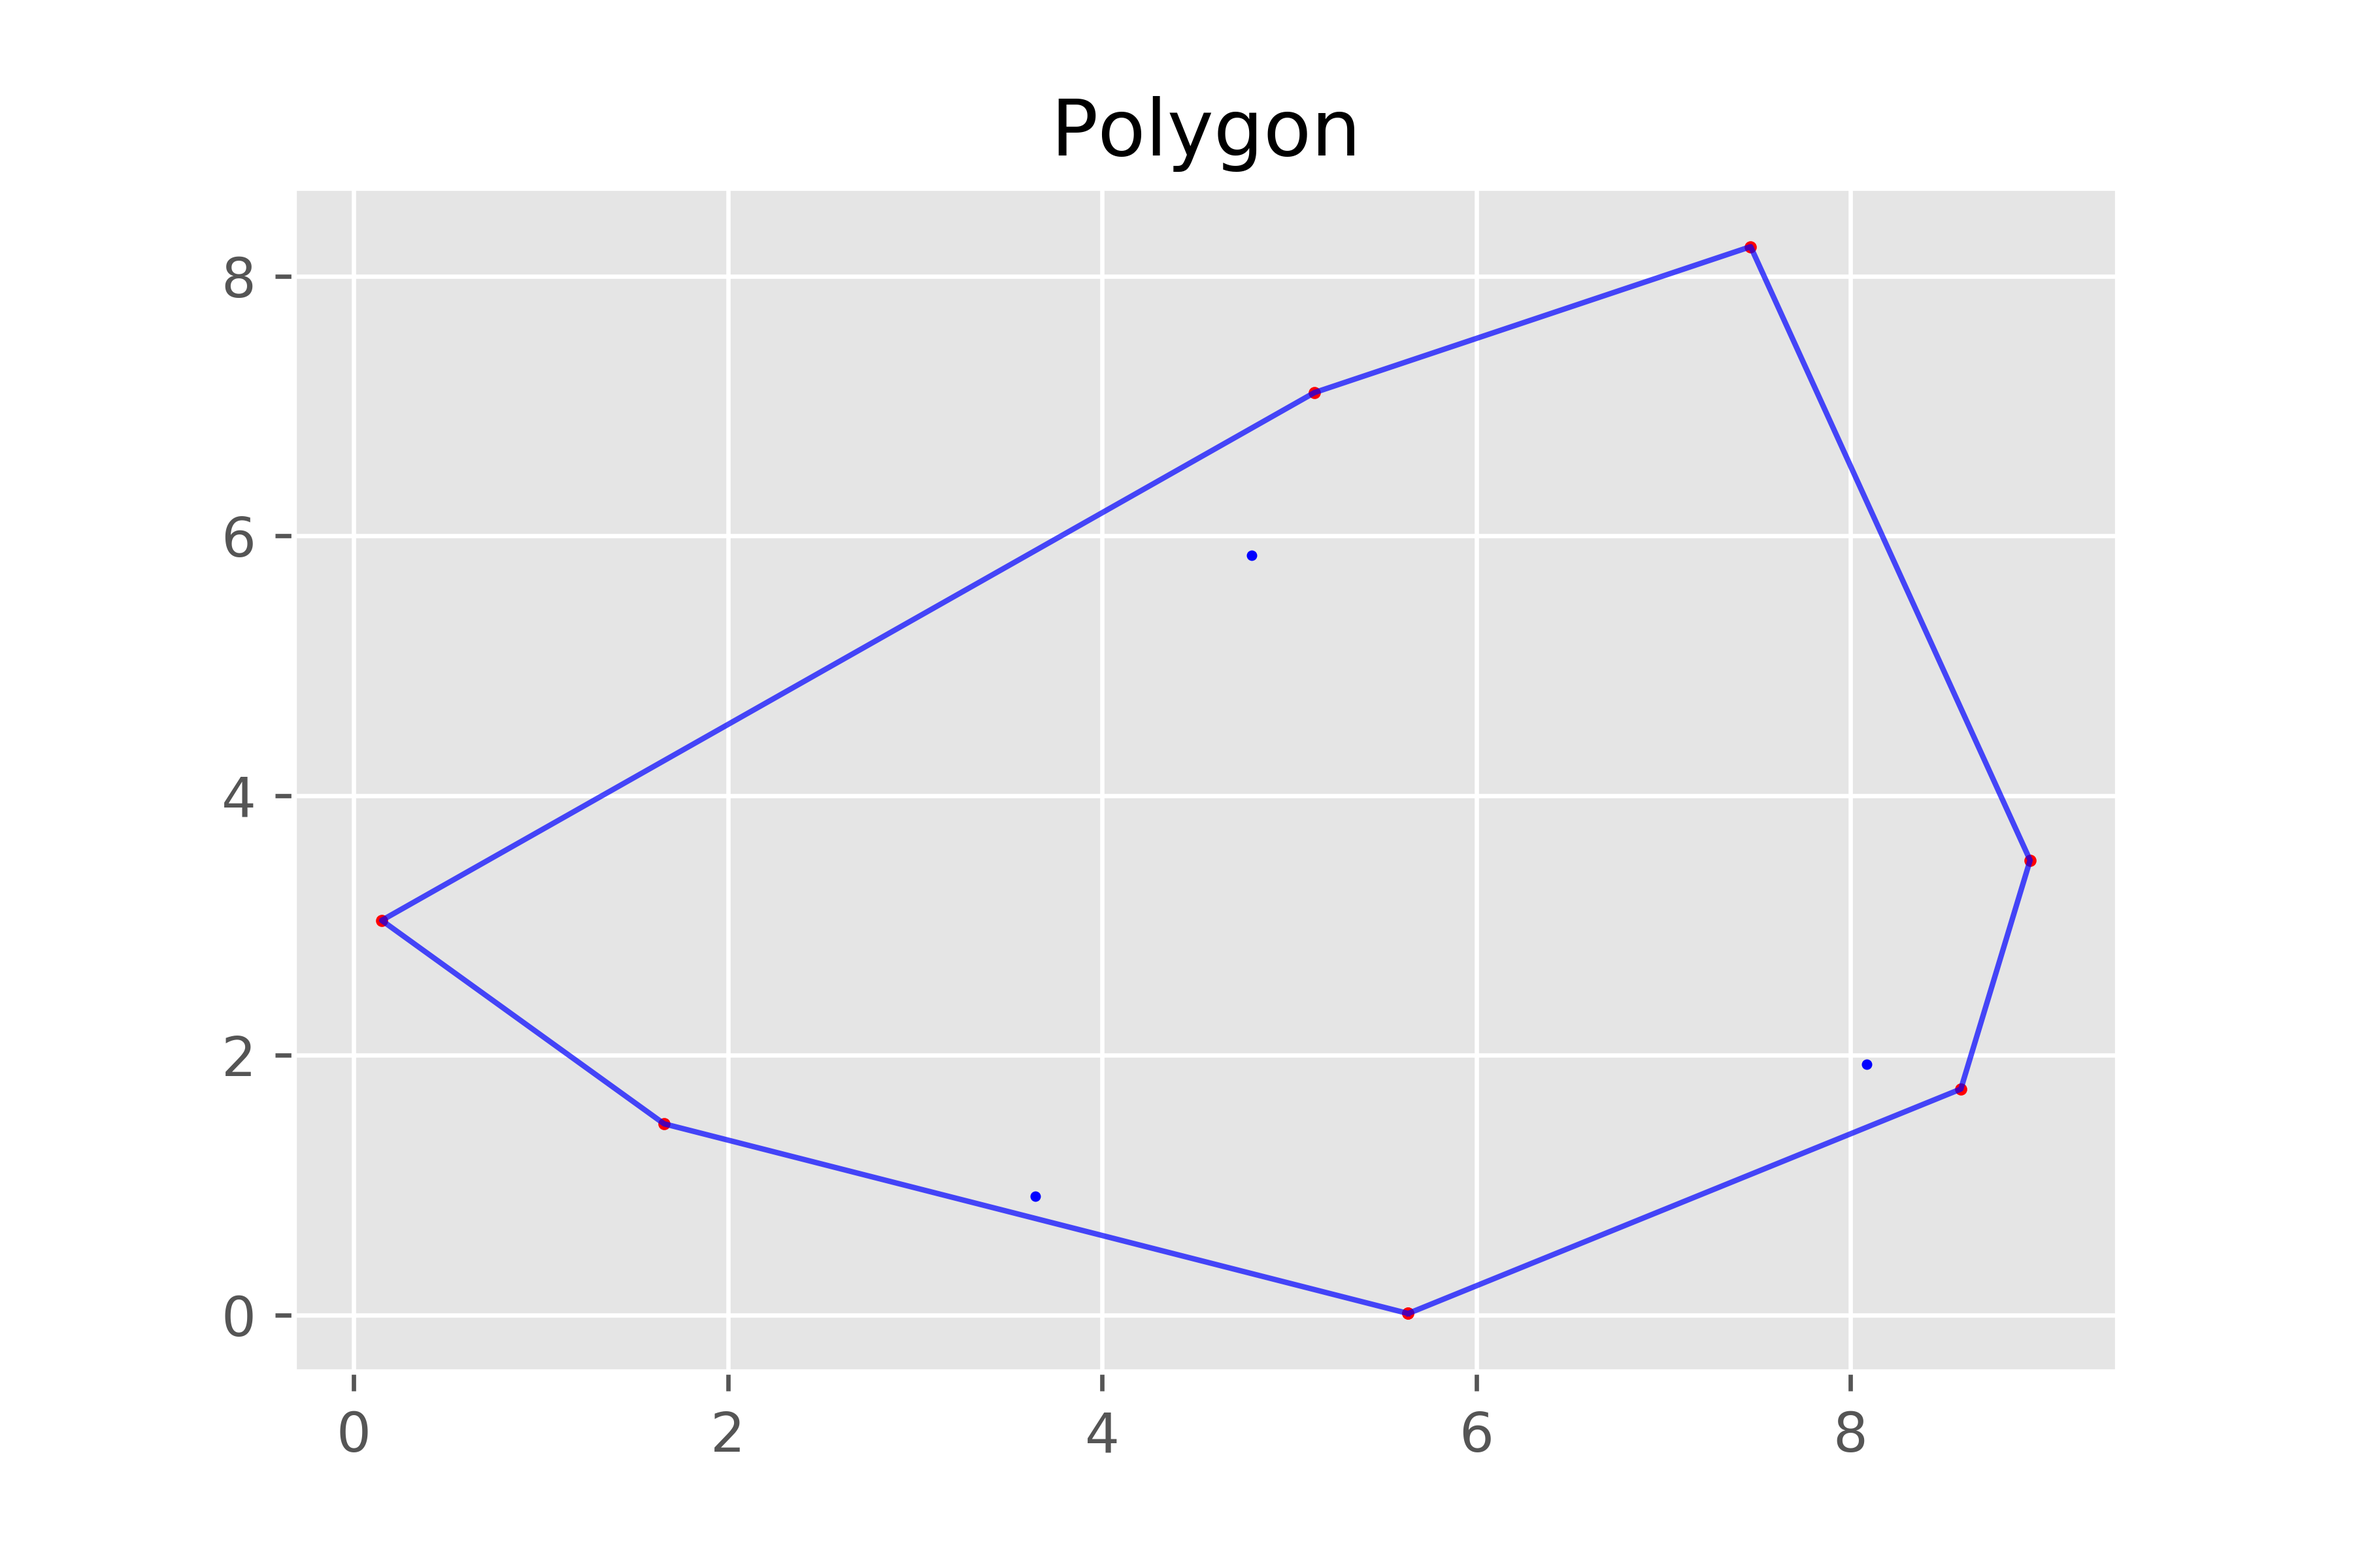
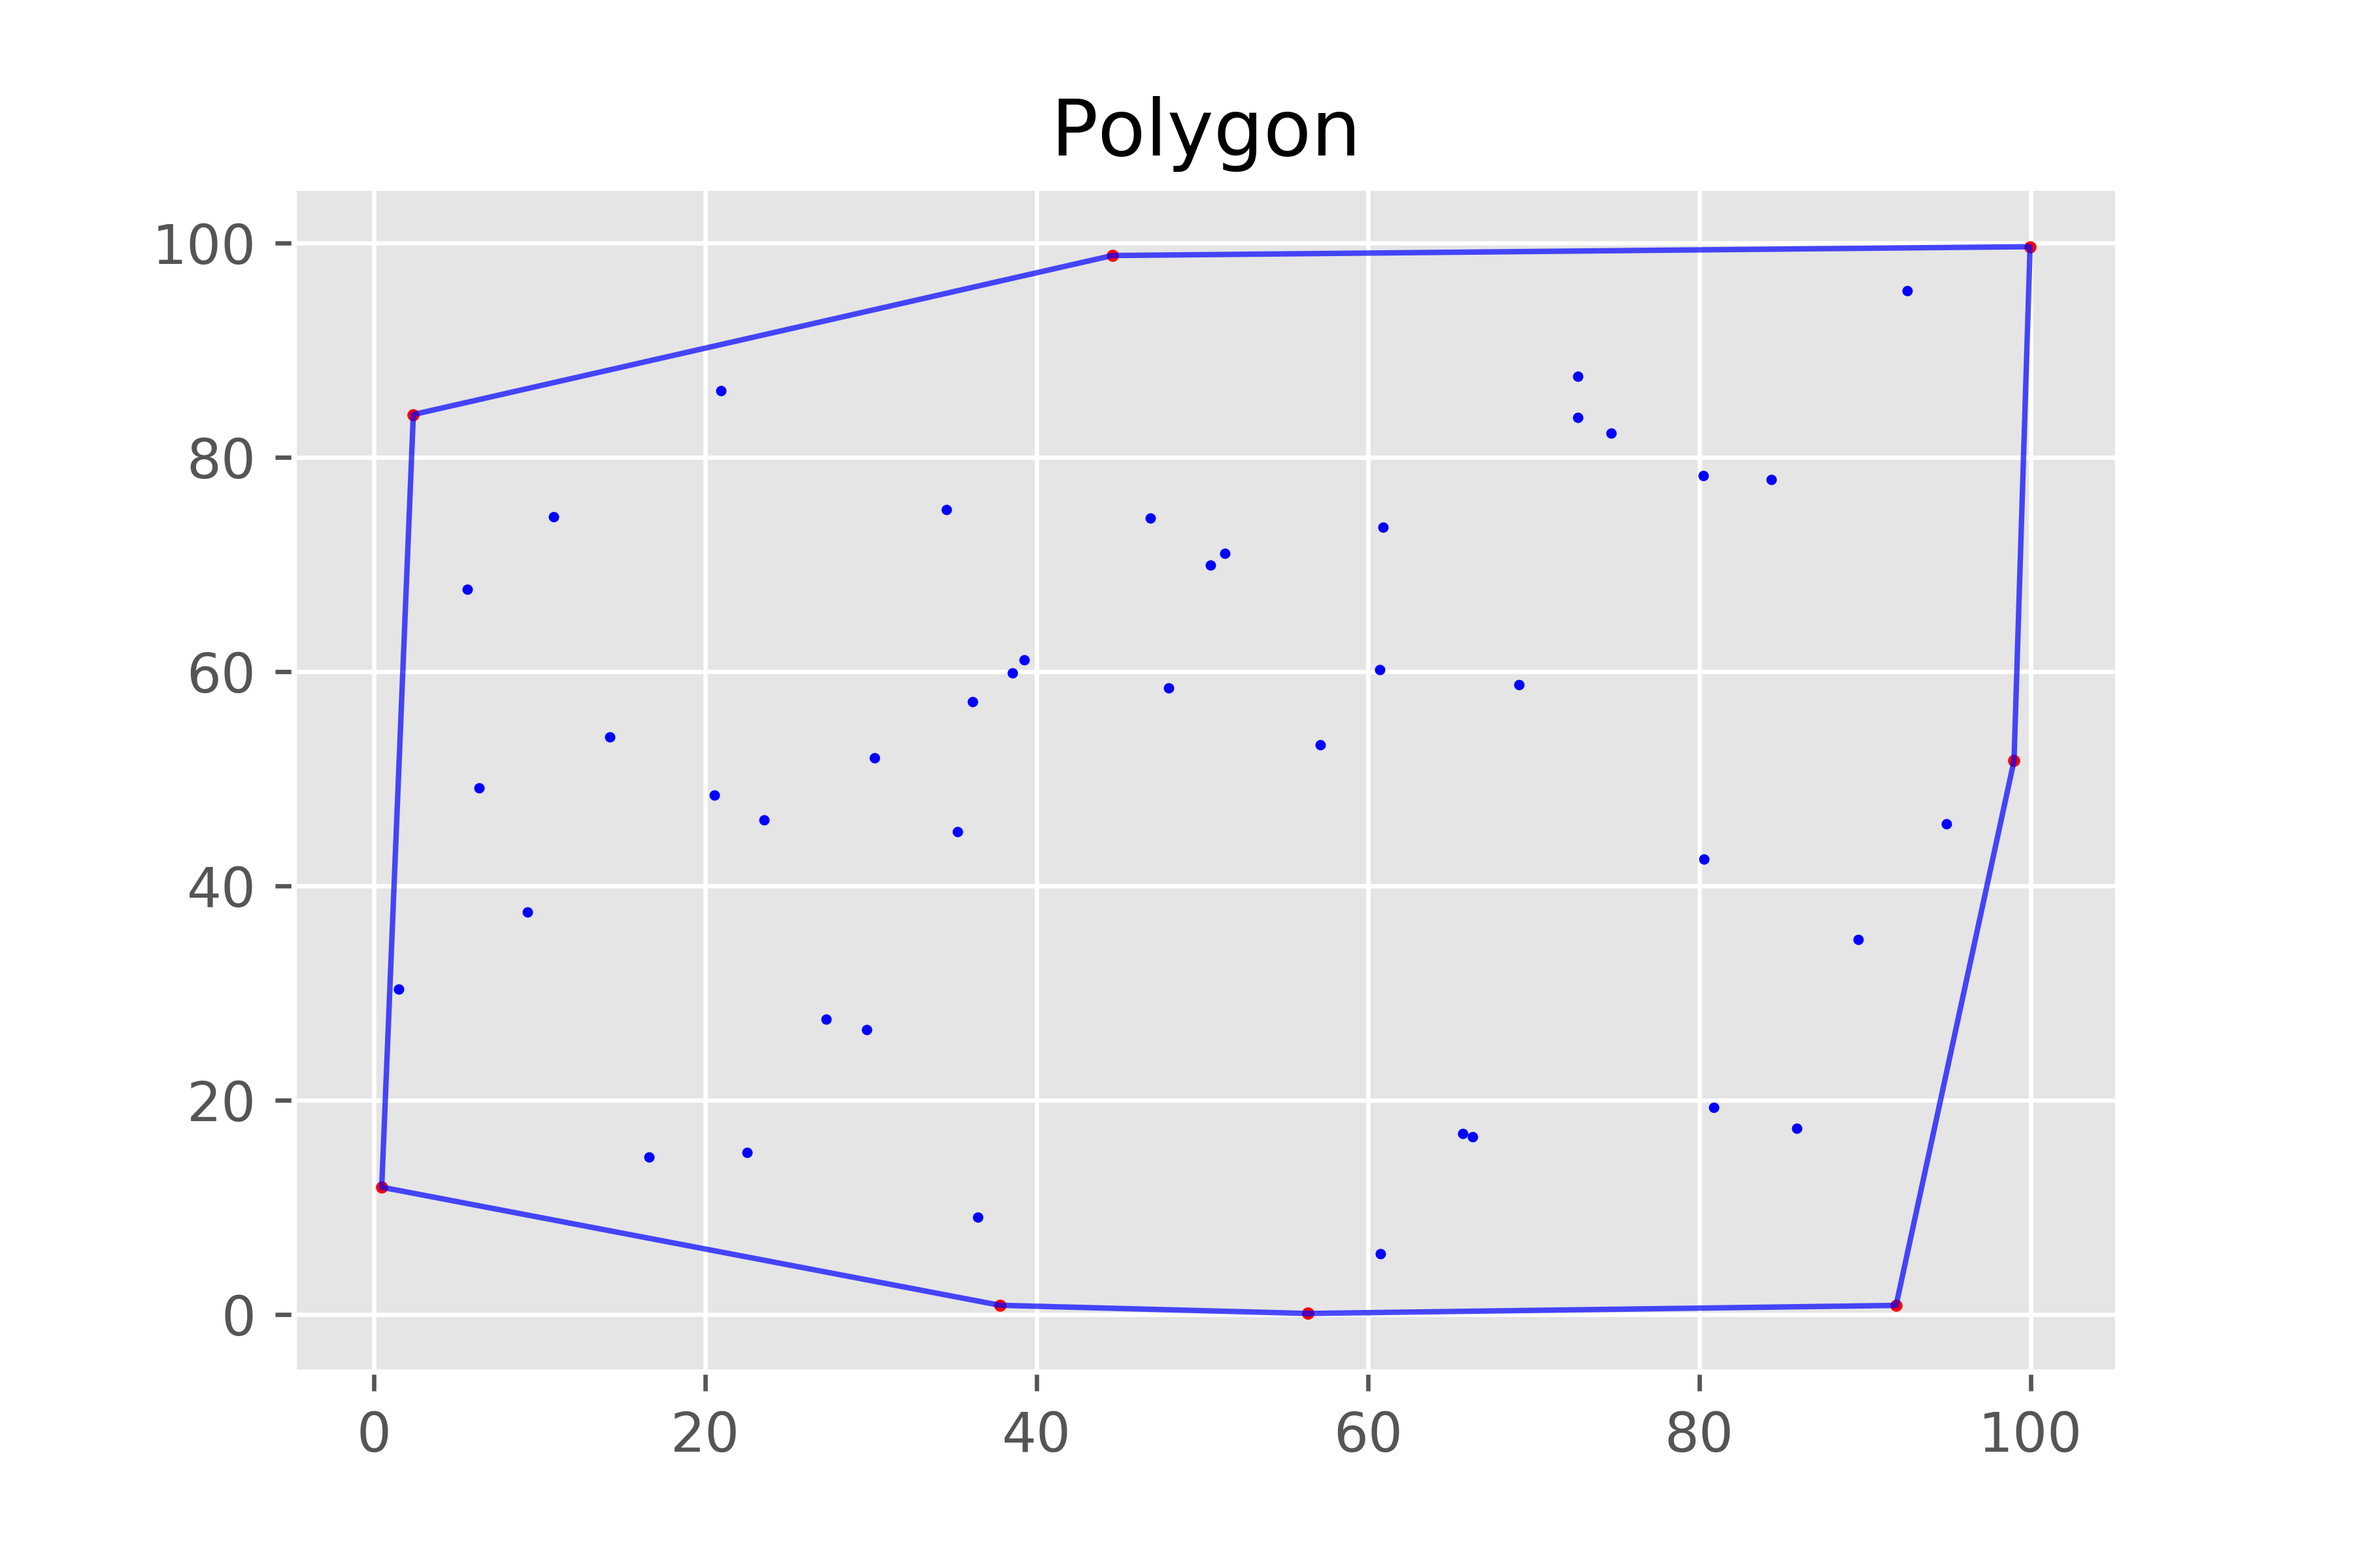
.

diff --git a/DV_HW/1_c_i/1_c_i_3.c b/DV_HW/1_c_i/1_c_i_3.c
@@ -4,8 +4,8 @@
 #include <time.h>
 #include "Linked_List.h"
 
-#define MAX 10
-#define N 10
+#define MAX 100
+#define N 50
 
 void make_points(struct Linked_List *points) {
     for (int point = 0; point < N; point++) {
@@ -120,12 +120,12 @@ void make_polygon(struct Linked_List *points, struct Linked_List *polygon) {
     // найдем точку с минимальным полярным углом, относительно оси x
     struct Node *new_vertex = find_point_min_polar_angle(polygon, points, 1, 0);
     list_insert(polygon, new_vertex->x, new_vertex->y);
-    list_del(points, new_vertex);
+    //list_del(points, new_vertex);
     while (!(polygon->end->x == polygon->begin->x && polygon->end->y == polygon->begin->y)) {
         new_vertex = find_point_min_polar_angle(polygon, points, polygon->end->x - polygon->end->prev->x,
                                                 polygon->end->y - polygon->end->prev->y);
         list_insert(polygon, new_vertex->x, new_vertex->y);
-        list_del(points, new_vertex);
+        //list_del(points, new_vertex);
     }
 }
 
@@ -145,8 +145,8 @@ int main() {
     // del_repetitions(&points, start_p); // если хотим убедиться, что повторений нет - включить
 
     list_insert(&polygon, start_p->x, start_p->y);
-    list_insert(&points, start_p->x, start_p->y);
-    list_del(&points, start_p);
+    //list_insert(&points, start_p->x, start_p->y);
+    //list_del(&points, start_p);
     // теперь стартовая точка находится в конце
 
     make_polygon(&points, &polygon);

diff --git a/DV_HW/1_c_ii/1_c_ii.c b/DV_HW/1_c_ii/1_c_ii.c
@@ -1,0 +1,5 @@
+#include <stdio.h>
+
+int main() {
+    
+}
